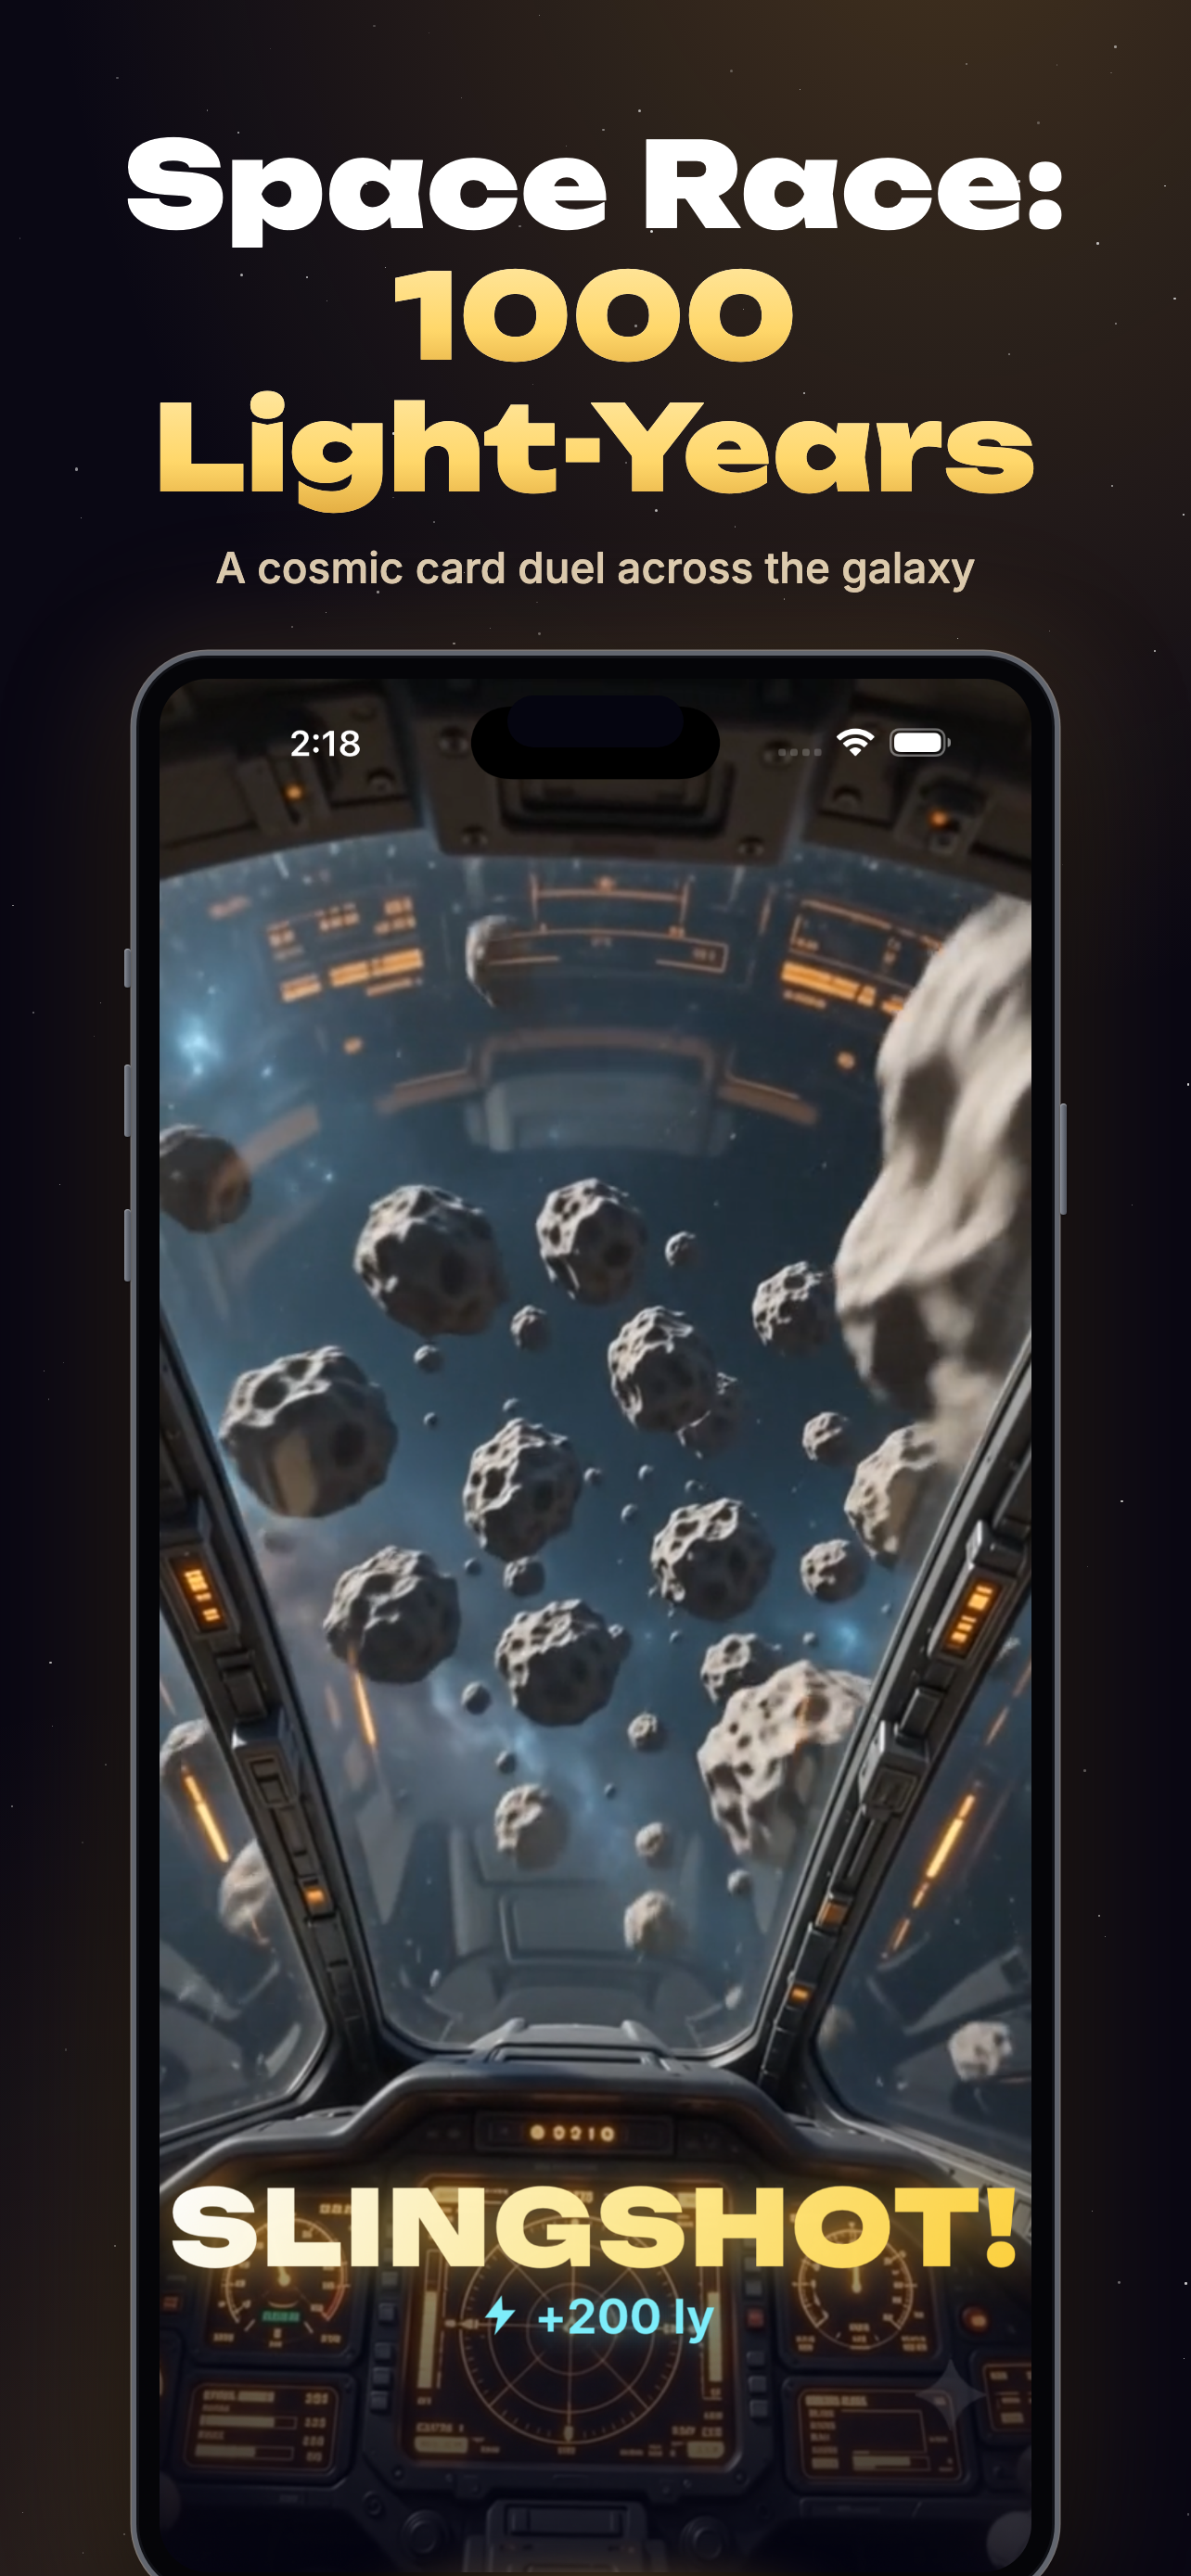
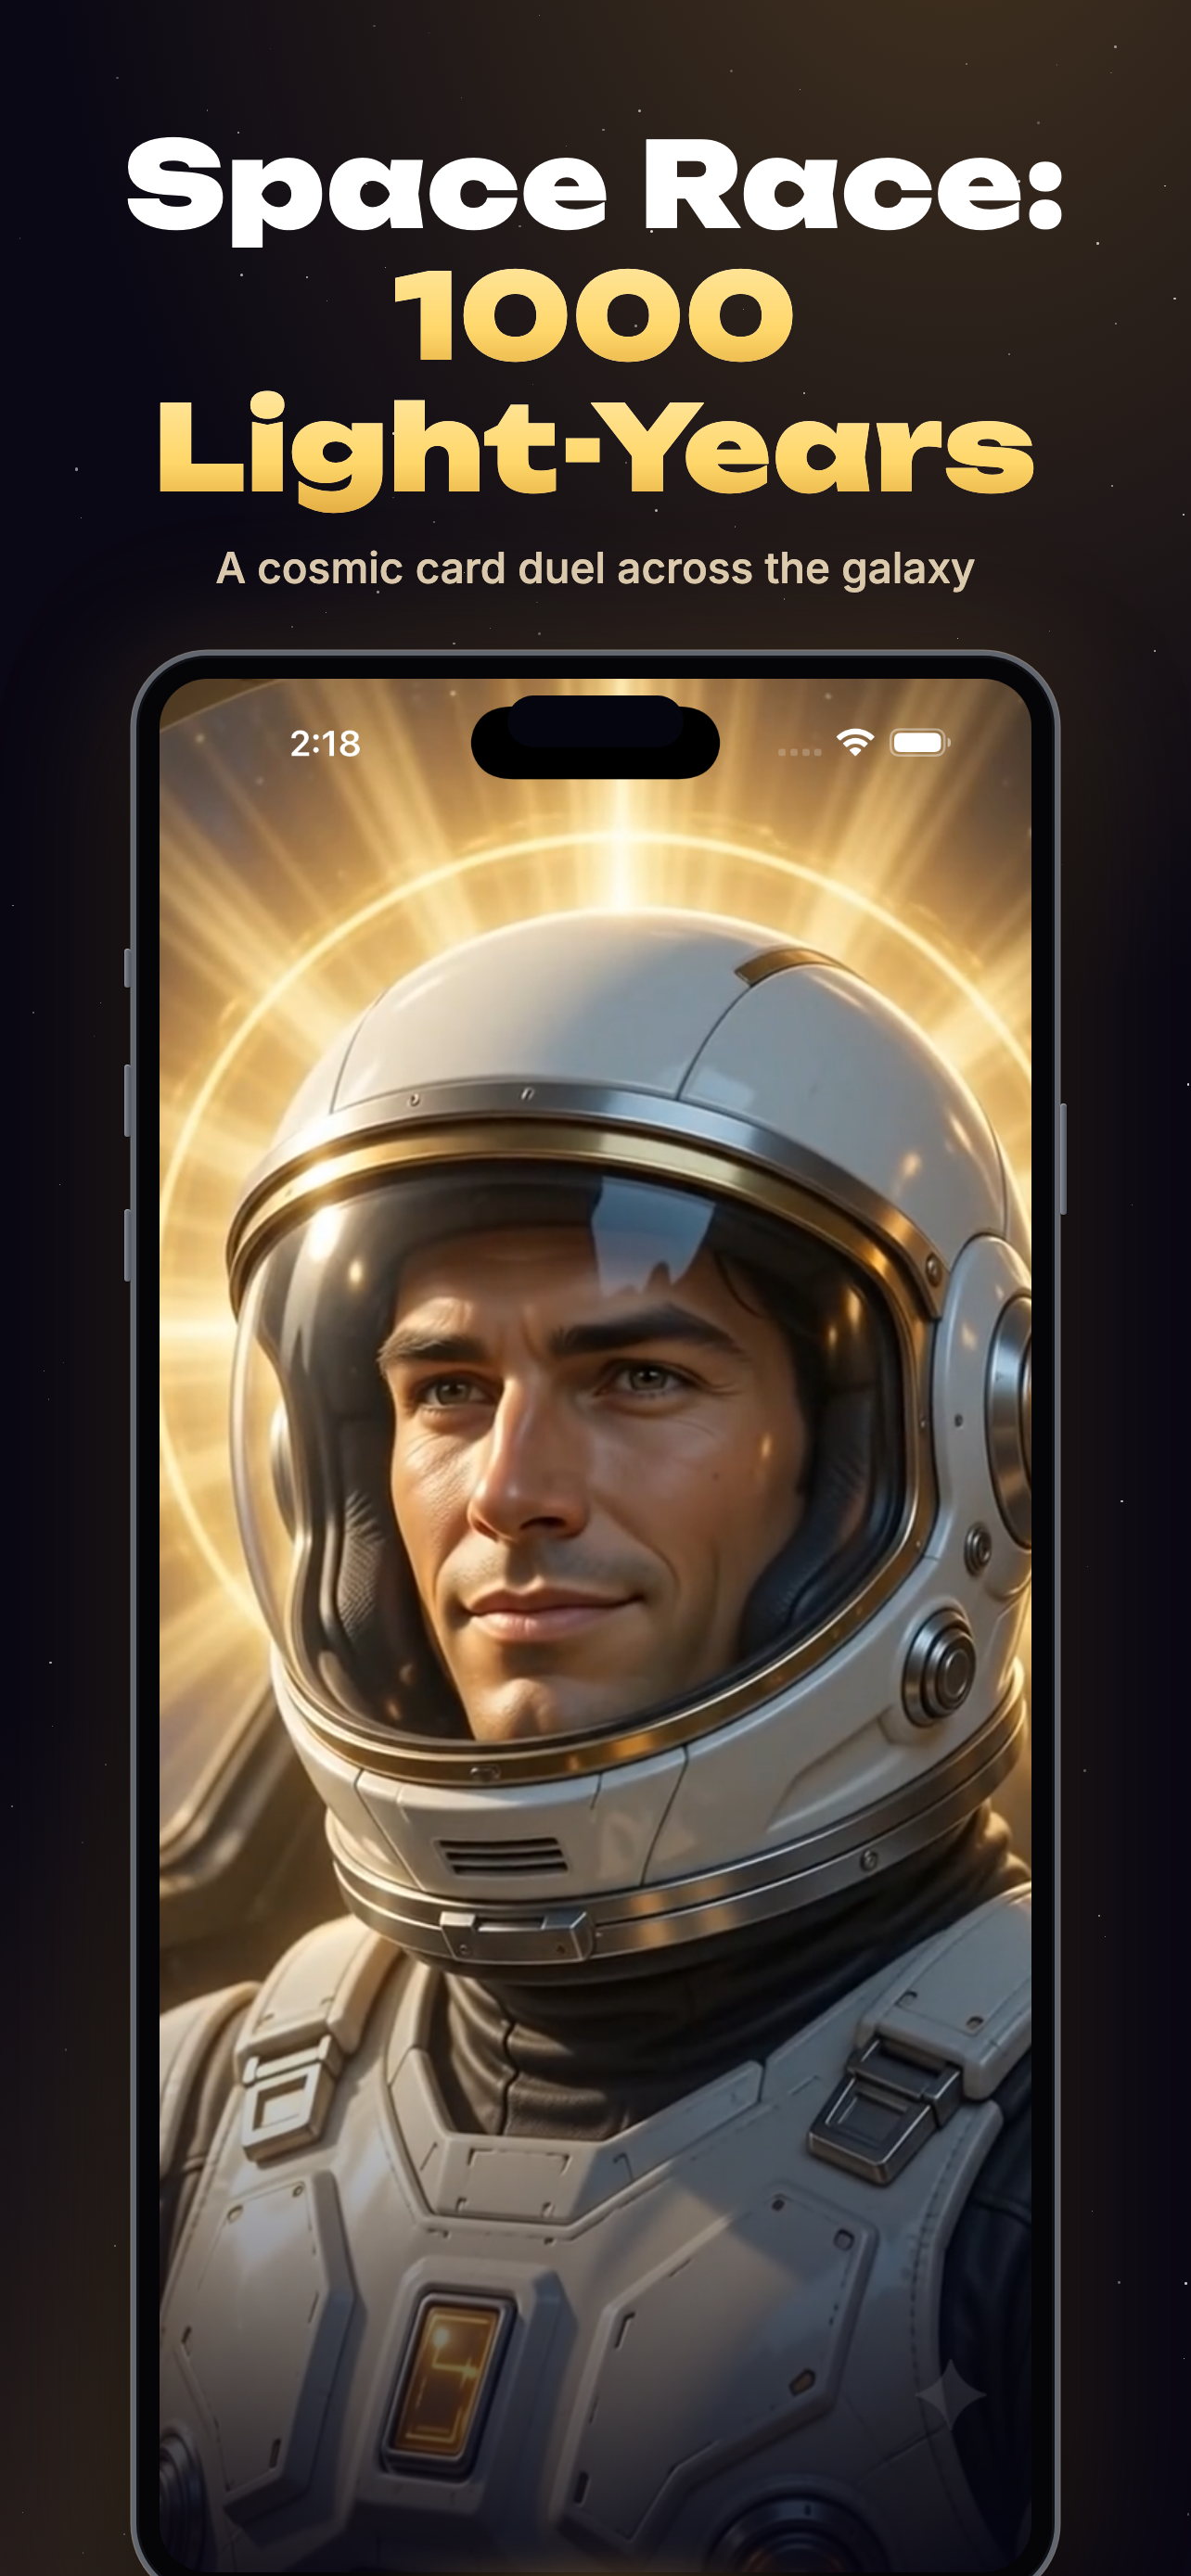
feat(docs): marquee slide art — golden Ace Pilot hero
The brand card now uses the angelic-gold Ace Pilot frame (the app-icon
character) instead of duplicating slide 2's cockpit shot — instantly
distinct in the set and in the link-unfurl thumbnail. Owner's pick.

diff --git a/docs/app-store/compose/compose.html b/docs/app-store/compose/compose.html
@@ -137,7 +137,7 @@
     // MARQUEE — slide 1. The App Store link unfurl thumbnails the FIRST
     // screenshot, so this one carries the full app title as the brand card.
     marquee: {
-      shot: { iphone: '../screenshots/iphone-6.9-03-slingshot.png' },
+      shot: { iphone: '../screenshots/iphone-6.9-06-ace-hero.png' },
       h1: 'Space Race:<br><em>1000 Light&#8209;Years</em>',
       sub: 'A cosmic card duel across the galaxy',
       marquee: true,

diff --git a/docs/app-store/screenshots/README.md b/docs/app-store/screenshots/README.md
@@ -13,6 +13,7 @@ content (slingshot cinematic, portrait 💫 safeties, compact iPad layout).
 | `iphone-6.9-03-slingshot.png` | iPhone 17 Pro Max | 1320×2868 | Slingshot cinematic mid-clip — cockpit asteroid field + SLINGSHOT! +200 ly caption |
 | `iphone-6.9-04-scry.png` | iPhone 17 Pro Max | 1320×2868 | Two-card scry reveal |
 | `iphone-6.9-05-board-race.png` | iPhone 17 Pro Max | 1320×2868 | Staged mid-race board — AI 575 (blocked, red) vs you 525, 💫 slingshot safety |
+| `iphone-6.9-06-ace-hero.png` | iPhone 17 Pro Max | 1320×2868 | Golden Ace Pilot hero frame (dodge-clip opening) — the MARQUEE slide art, echoes the app icon |
 | `ipad-13-01-table.png` | iPad Pro 13" (M5) | 2064×2752 | Mid-race table, compact iPad layout |
 | `ipad-13-02-rules.png` | iPad Pro 13" (M5) | 2064×2752 | How-to-Play on iPad |
 